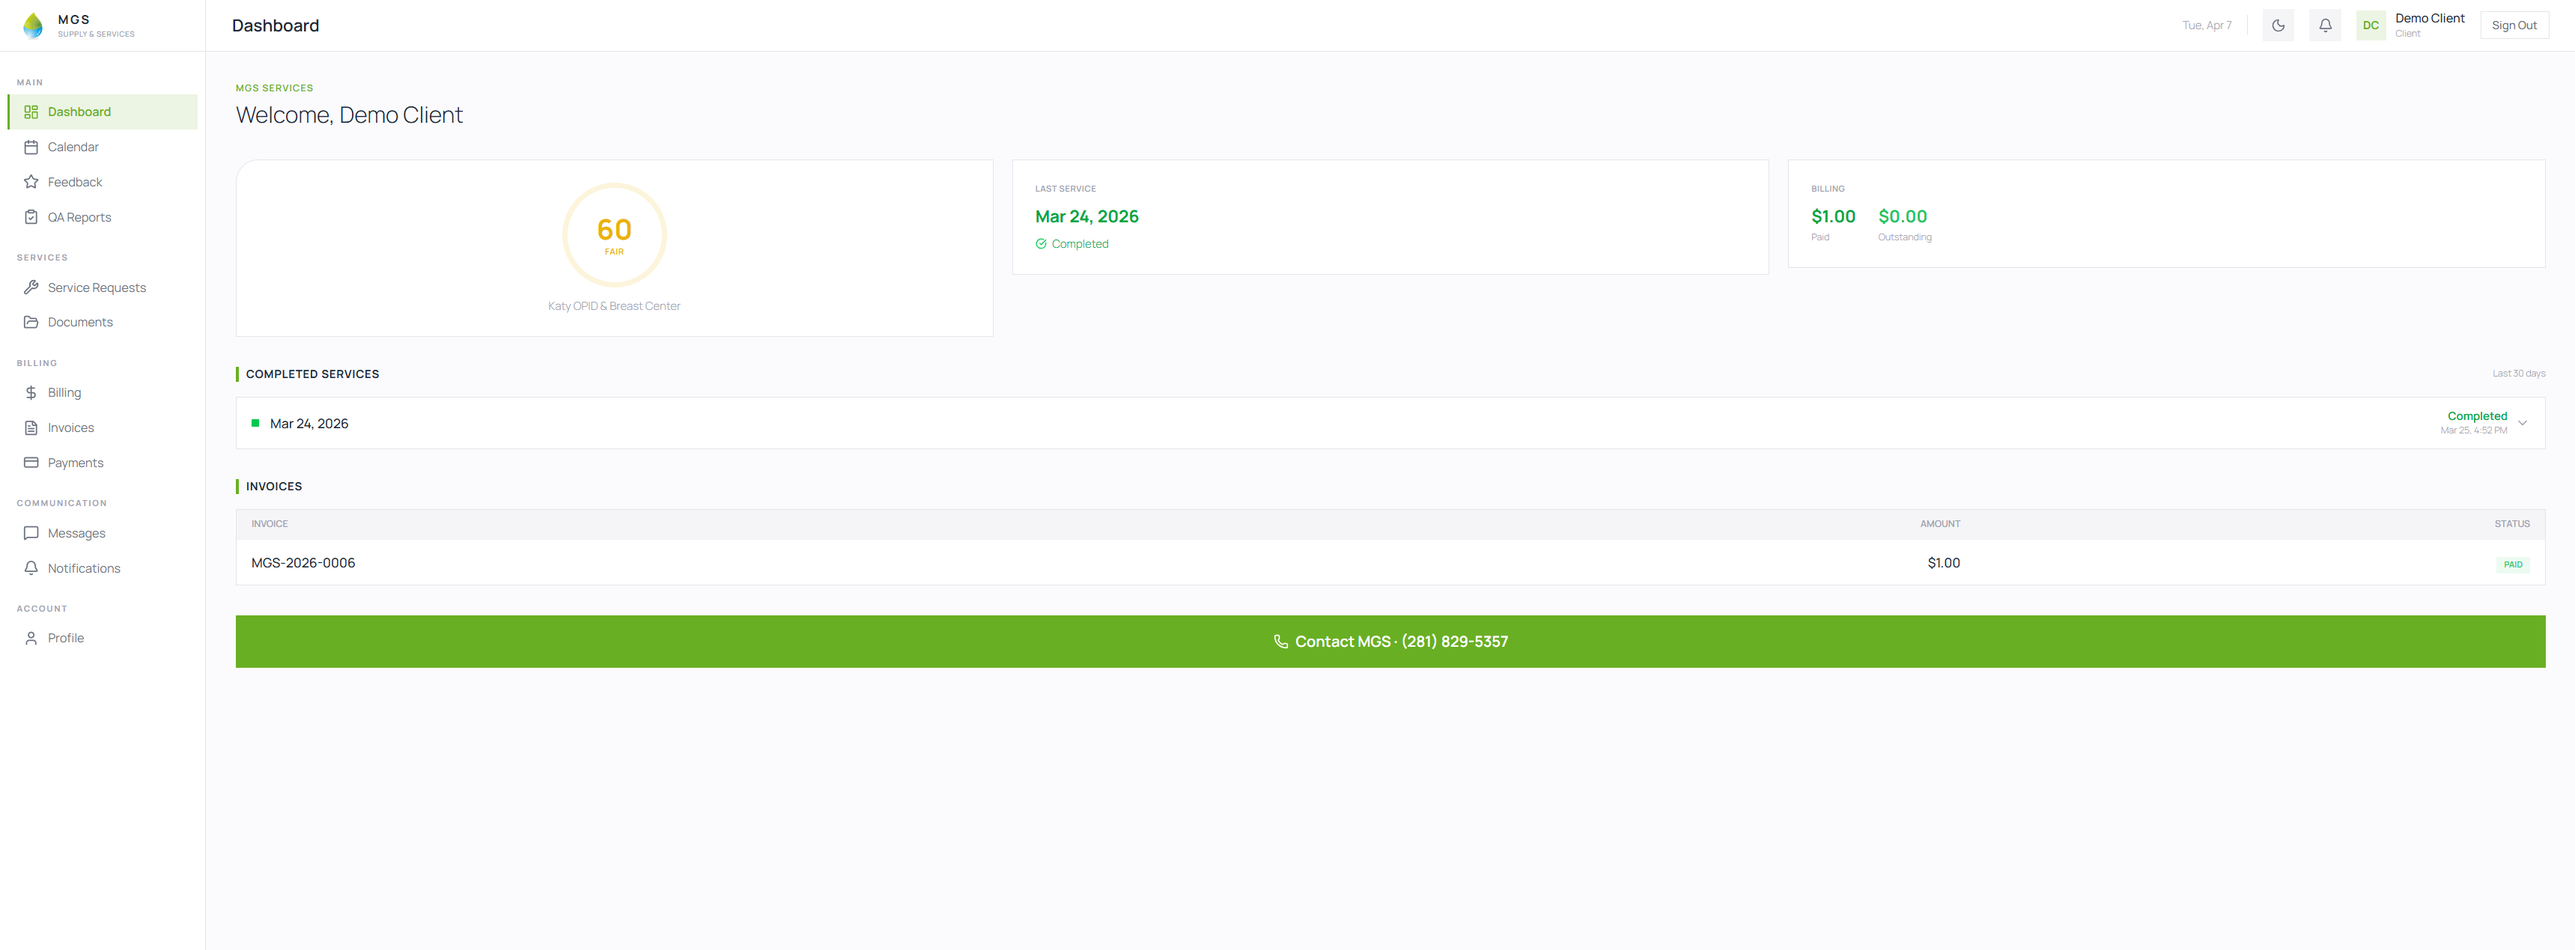
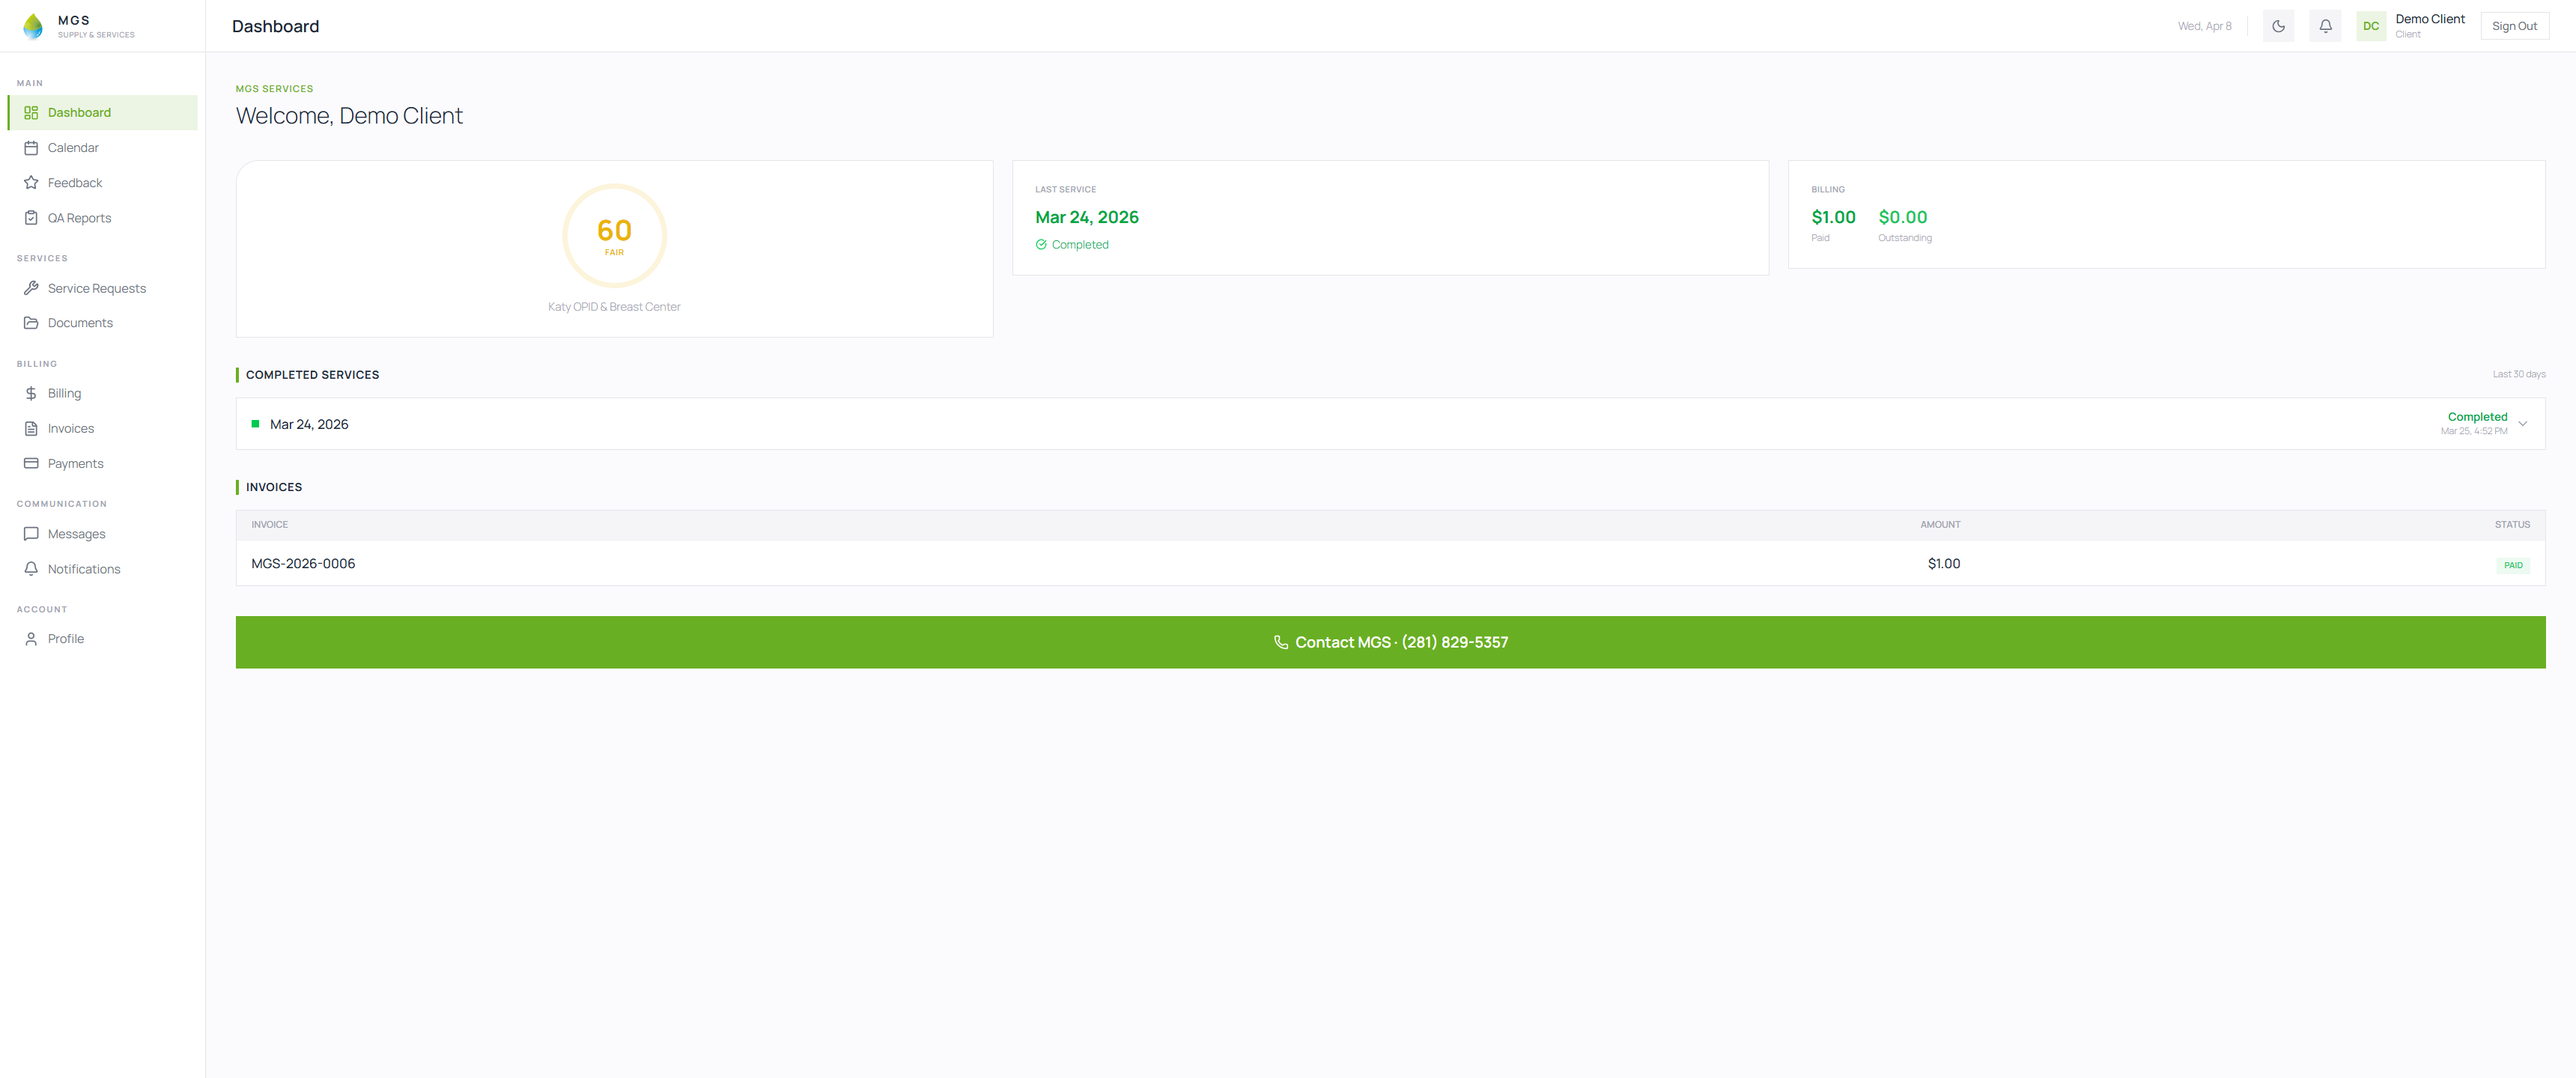
Swap portal screenshots with crisp 3440x1440 full-screen captures

diff --git a/src/components/sections/client-portal-cta.tsx b/src/components/sections/client-portal-cta.tsx
@@ -141,8 +141,8 @@ export function ClientPortalCta() {
               <Image
                 src="/images/portal-dashboard.png"
                 alt="MGS Client Portal — Dashboard showing location health score, service history, and invoices"
-                width={3439}
-                height={1269}
+                width={3440}
+                height={1440}
                 className="w-full h-auto"
                 quality={100}
                 unoptimized
@@ -167,8 +167,8 @@ export function ClientPortalCta() {
               <Image
                 src="/images/portal-invoice.png"
                 alt="MGS Client Portal — Invoice detail with payment timeline"
-                width={3439}
-                height={1269}
+                width={3440}
+                height={1440}
                 className="w-full h-auto"
                 quality={100}
                 unoptimized
